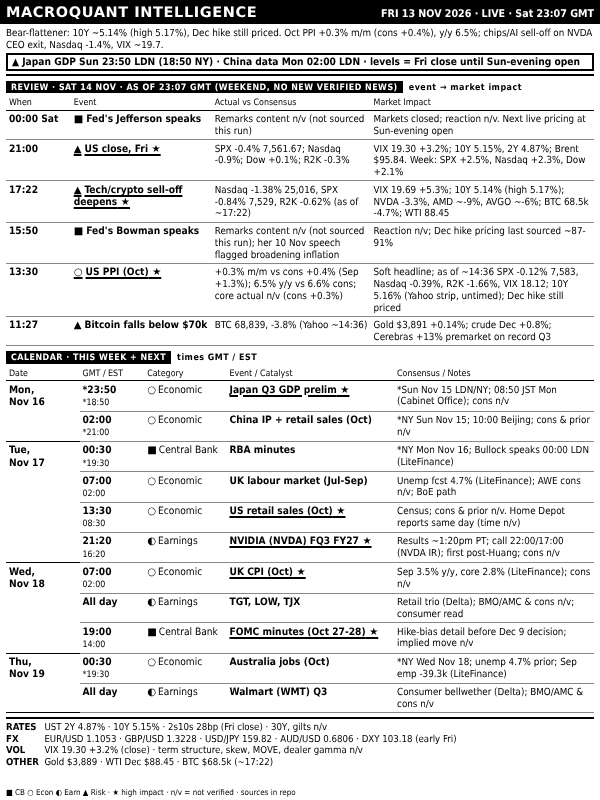
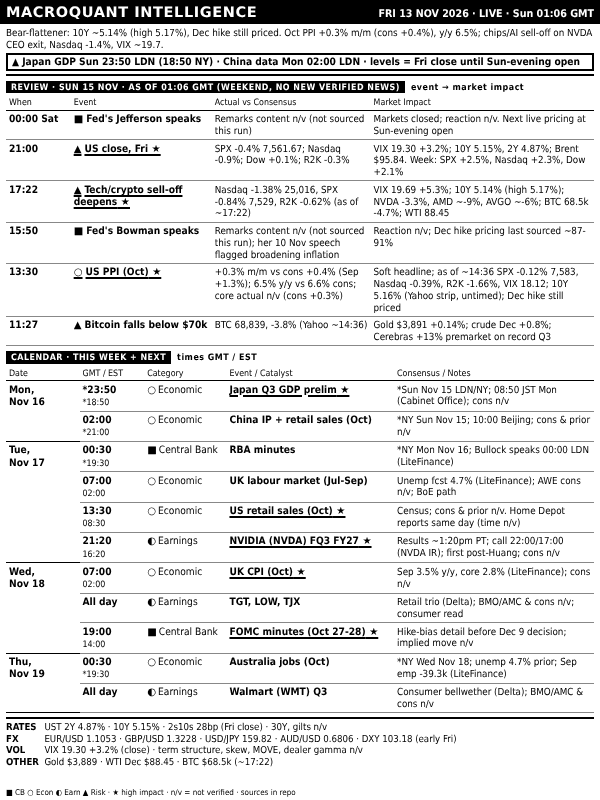
dashboard: FRI 13 NOV 2026 LIVE 01:06
Claude-Session: https://claude.ai/code/session_016SJqa82L3uR1jbgVPQD6iq

Changed region(s): [[0.12, 0.0938, 0.87, 0.125], [0.63, 0.0, 0.9, 0.0312], [0.93, 0.0, 0.96, 0.0312]]

diff --git a/out/dashboard.html b/out/dashboard.html
@@ -38,9 +38,9 @@ table.bd{border-collapse:collapse;width:100%;table-layout:fixed;margin-top:1px}
 </style></head><body>
 <div id="root">
  <div class="hdr"><span class="t">MACROQUANT INTELLIGENCE</span>
-  <span class="r">FRI 13 NOV 2026 · LIVE · Sat 23:07 GMT</span></div>
+  <span class="r">FRI 13 NOV 2026 · LIVE · Sun 01:06 GMT</span></div>
  <div class="ban"><div class="rg">Bear-flattener: 10Y ~5.14% (high 5.17%), Dec hike still priced. Oct PPI +0.3% m/m (cons +0.4%), y/y 6.5%; chips/AI sell-off on NVDA CEO exit, Nasdaq -1.4%, VIX ~19.7.</div><div class="al">▲ Japan GDP Sun 23:50 LDN (18:50 NY) · China data Mon 02:00 LDN · levels = Fri close until Sun-evening open</div></div>
- <div class="sl"><span>REVIEW · SAT 14 NOV · AS OF 23:07 GMT (WEEKEND, NO NEW VERIFIED NEWS)</span>event → market impact</div><table class="bd rv"><colgroup><col style="width:11%"><col style="width:24%"><col style="width:27%"><col></colgroup><tr><th>When</th><th>Event</th><th>Actual vs Consensus</th><th>Market Impact</th></tr><tr><td class="tm"><b>00:00 Sat</b></td><td class="ev"><i>■</i>Fed's Jefferson speaks</td><td class="ac">Remarks content n/v (not sourced this run)</td><td class="nt">Markets closed; reaction n/v. Next live pricing at Sun-evening open</td></tr><tr class="h"><td class="tm"><b>21:00</b></td><td class="ev"><i>▲</i>US close, Fri</td><td class="ac">SPX -0.4% 7,561.67; Nasdaq -0.9%; Dow +0.1%; R2K -0.3%</td><td class="nt">VIX 19.30 +3.2%; 10Y 5.15%, 2Y 4.87%; Brent $95.84. Week: SPX +2.5%, Nasdaq +2.3%, Dow +2.1%</td></tr><tr class="h"><td class="tm"><b>17:22</b></td><td class="ev"><i>▲</i>Tech/crypto sell-off deepens</td><td class="ac">Nasdaq -1.38% 25,016, SPX -0.84% 7,529, R2K -0.62% (as of ~17:22)</td><td class="nt">VIX 19.69 +5.3%; 10Y 5.14% (high 5.17%); NVDA -3.3%, AMD ~-9%, AVGO ~-6%; BTC 68.5k -4.7%; WTI 88.45</td></tr><tr><td class="tm"><b>15:50</b></td><td class="ev"><i>■</i>Fed's Bowman speaks</td><td class="ac">Remarks content n/v (not sourced this run); her 10 Nov speech flagged broadening inflation</td><td class="nt">Reaction n/v; Dec hike pricing last sourced ~87-91%</td></tr><tr class="h"><td class="tm"><b>13:30</b></td><td class="ev"><i>○</i>US PPI (Oct)</td><td class="ac">+0.3% m/m vs cons +0.4% (Sep +1.3%); 6.5% y/y vs 6.6% cons; core actual n/v (cons +0.3%)</td><td class="nt">Soft headline; as of ~14:36 SPX -0.12% 7,583, Nasdaq -0.39%, R2K -1.66%, VIX 18.12; 10Y 5.16% (Yahoo strip, untimed); Dec hike still priced</td></tr><tr><td class="tm"><b>11:27</b></td><td class="ev"><i>▲</i>Bitcoin falls below $70k</td><td class="ac">BTC 68,839, -3.8% (Yahoo ~14:36)</td><td class="nt">Gold $3,891 +0.14%; crude Dec +0.8%; Cerebras +13% premarket on record Q3</td></tr></table>
+ <div class="sl"><span>REVIEW · SUN 15 NOV · AS OF 01:06 GMT (WEEKEND, NO NEW VERIFIED NEWS)</span>event → market impact</div><table class="bd rv"><colgroup><col style="width:11%"><col style="width:24%"><col style="width:27%"><col></colgroup><tr><th>When</th><th>Event</th><th>Actual vs Consensus</th><th>Market Impact</th></tr><tr><td class="tm"><b>00:00 Sat</b></td><td class="ev"><i>■</i>Fed's Jefferson speaks</td><td class="ac">Remarks content n/v (not sourced this run)</td><td class="nt">Markets closed; reaction n/v. Next live pricing at Sun-evening open</td></tr><tr class="h"><td class="tm"><b>21:00</b></td><td class="ev"><i>▲</i>US close, Fri</td><td class="ac">SPX -0.4% 7,561.67; Nasdaq -0.9%; Dow +0.1%; R2K -0.3%</td><td class="nt">VIX 19.30 +3.2%; 10Y 5.15%, 2Y 4.87%; Brent $95.84. Week: SPX +2.5%, Nasdaq +2.3%, Dow +2.1%</td></tr><tr class="h"><td class="tm"><b>17:22</b></td><td class="ev"><i>▲</i>Tech/crypto sell-off deepens</td><td class="ac">Nasdaq -1.38% 25,016, SPX -0.84% 7,529, R2K -0.62% (as of ~17:22)</td><td class="nt">VIX 19.69 +5.3%; 10Y 5.14% (high 5.17%); NVDA -3.3%, AMD ~-9%, AVGO ~-6%; BTC 68.5k -4.7%; WTI 88.45</td></tr><tr><td class="tm"><b>15:50</b></td><td class="ev"><i>■</i>Fed's Bowman speaks</td><td class="ac">Remarks content n/v (not sourced this run); her 10 Nov speech flagged broadening inflation</td><td class="nt">Reaction n/v; Dec hike pricing last sourced ~87-91%</td></tr><tr class="h"><td class="tm"><b>13:30</b></td><td class="ev"><i>○</i>US PPI (Oct)</td><td class="ac">+0.3% m/m vs cons +0.4% (Sep +1.3%); 6.5% y/y vs 6.6% cons; core actual n/v (cons +0.3%)</td><td class="nt">Soft headline; as of ~14:36 SPX -0.12% 7,583, Nasdaq -0.39%, R2K -1.66%, VIX 18.12; 10Y 5.16% (Yahoo strip, untimed); Dec hike still priced</td></tr><tr><td class="tm"><b>11:27</b></td><td class="ev"><i>▲</i>Bitcoin falls below $70k</td><td class="ac">BTC 68,839, -3.8% (Yahoo ~14:36)</td><td class="nt">Gold $3,891 +0.14%; crude Dec +0.8%; Cerebras +13% premarket on record Q3</td></tr></table>
  <div class="sl"><span>CALENDAR · THIS WEEK + NEXT</span>times GMT / EST</div>
  <table class="bd"><colgroup><col style="width:12.5%"><col style="width:11%"><col style="width:14%"><col style="width:28.5%"><col></colgroup><tr><th>Date</th><th>GMT / EST</th><th>Category</th><th>Event / Catalyst</th><th>Consensus / Notes</th></tr><tr class="g0 h"><td class="dt" rowspan="2">Mon,<br>Nov&nbsp;16</td><td class="tm"><b>*23:50</b><span>*18:50</span></td><td class="ct"><i>○</i>Economic</td><td class="ev">Japan Q3 GDP prelim</td><td class="nt">*Sun Nov 15 LDN/NY; 08:50 JST Mon (Cabinet Office); cons n/v</td></tr><tr class=""><td class="tm"><b>02:00</b><span>*21:00</span></td><td class="ct"><i>○</i>Economic</td><td class="ev">China IP + retail sales (Oct)</td><td class="nt">*NY Sun Nov 15; 10:00 Beijing; cons &amp; prior n/v</td></tr><tr class="g0"><td class="dt" rowspan="4">Tue,<br>Nov&nbsp;17</td><td class="tm"><b>00:30</b><span>*19:30</span></td><td class="ct"><i>■</i>Central Bank</td><td class="ev">RBA minutes</td><td class="nt">*NY Mon Nov 16; Bullock speaks 00:00 LDN (LiteFinance)</td></tr><tr class=""><td class="tm"><b>07:00</b><span>02:00</span></td><td class="ct"><i>○</i>Economic</td><td class="ev">UK labour market (Jul-Sep)</td><td class="nt">Unemp fcst 4.7% (LiteFinance); AWE cons n/v; BoE path</td></tr><tr class="h"><td class="tm"><b>13:30</b><span>08:30</span></td><td class="ct"><i>○</i>Economic</td><td class="ev">US retail sales (Oct)</td><td class="nt">Census; cons &amp; prior n/v. Home Depot reports same day (time n/v)</td></tr><tr class="h"><td class="tm"><b>21:20</b><span>16:20</span></td><td class="ct"><i>◐</i>Earnings</td><td class="ev">NVIDIA (NVDA) FQ3 FY27</td><td class="nt">Results ~1:20pm PT; call 22:00/17:00 (NVDA IR); first post-Huang; cons n/v</td></tr><tr class="g0 h"><td class="dt" rowspan="3">Wed,<br>Nov&nbsp;18</td><td class="tm"><b>07:00</b><span>02:00</span></td><td class="ct"><i>○</i>Economic</td><td class="ev">UK CPI (Oct)</td><td class="nt">Sep 3.5% y/y, core 2.8% (LiteFinance); cons n/v</td></tr><tr class=""><td class="tm"><b>All day</b></td><td class="ct"><i>◐</i>Earnings</td><td class="ev">TGT, LOW, TJX</td><td class="nt">Retail trio (Delta); BMO/AMC &amp; cons n/v; consumer read</td></tr><tr class="h"><td class="tm"><b>19:00</b><span>14:00</span></td><td class="ct"><i>■</i>Central Bank</td><td class="ev">FOMC minutes (Oct 27-28)</td><td class="nt">Hike-bias detail before Dec 9 decision; implied move n/v</td></tr><tr class="g0"><td class="dt" rowspan="2">Thu,<br>Nov&nbsp;19</td><td class="tm"><b>00:30</b><span>*19:30</span></td><td class="ct"><i>○</i>Economic</td><td class="ev">Australia jobs (Oct)</td><td class="nt">*NY Wed Nov 18; unemp 4.7% prior; Sep emp -39.3k (LiteFinance)</td></tr><tr class=""><td class="tm"><b>All day</b></td><td class="ct"><i>◐</i>Earnings</td><td class="ev">Walmart (WMT) Q3</td><td class="nt">Consumer bellwether (Delta); BMO/AMC &amp; cons n/v</td></tr></table>
  <div class="lv"><div><b>RATES</b>UST 2Y 4.87% · 10Y 5.15% · 2s10s 28bp (Fri close) · 30Y, gilts n/v</div><div><b>FX</b>EUR/USD 1.1053 · GBP/USD 1.3228 · USD/JPY 159.82 · AUD/USD 0.6806 · DXY 103.18 (early Fri)</div><div><b>VOL</b>VIX 19.30 +3.2% (close) · term structure, skew, MOVE, dealer gamma n/v</div><div><b>OTHER</b>Gold $3,889 · WTI Dec $88.45 · BTC $68.5k (~17:22)</div></div>
